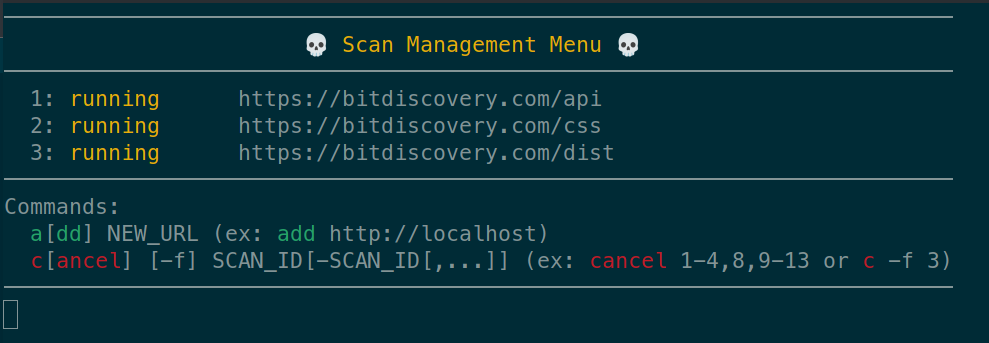
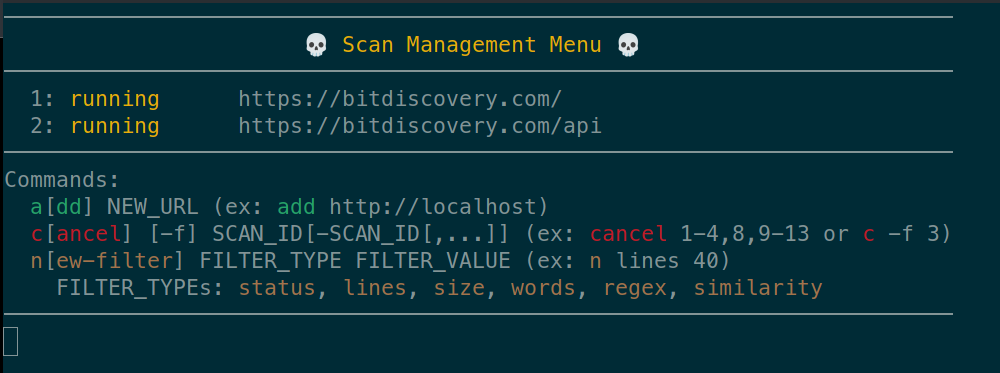
update

Changed region(s): [[0.0, 0.0875, 0.9707, 0.8455], [0.0, 0.0292, 0.9707, 0.0583], [0.0, 0.8746, 0.0303, 0.9621]]

diff --git a/content/docs/Examples/cancel-scan.md b/content/docs/Examples/cancel-scan.md
@@ -4,7 +4,7 @@ weight: 13
 categories: ["examples"]
 tags: ["feature", "pause", "cancel", "add", "menu"]
 description: >
-  Added in version **1.12.0**; Revised in version **2.4.1**
+  Added in version **1.12.0**; Revised in versions **2.4.1** and **2.6.2**
 ---
 
 ## Add or Cancel a Recursive Scan Interactively
@@ -19,6 +19,9 @@ adding an interactive menu from which currently running recursive scans can be c
 
 Version 2.4.1 expanded functionality even further with the ability to add a brand-new scan. Now that cancelling is no
 longer the only action available to users, the name has been updated to the **Scan Management Menu**™. 
+
+Version 2.6.2 brought yet another capability: users can now add new filters to their current scan. Adding a new filter
+works the same as though you had specified `--filter-*` on the command-line. 
 
 ## Example 
 
@@ -40,6 +43,28 @@ Using the menu is pretty simple: from a running scan, press `ENTER` to view the 
 ### Add a New Url for Scanning
 
 - Enter `add` or `a` followed by the new url you'd liked you add to the current scan queue 
+
+### Add a New Response Filter 
+
+- Enter `new-filter` or `n`, then the type of filter you'd like to add, and the value to pass to the filter itself.
+
+Valid filter types:
+- `status`
+- `lines`
+- `size`
+- `words`
+- `regex`
+- `similarity`
+
+Examples: 
+
+- `n status 301` - equivalent to command-line option `--filter-status 301`
+- `new-filter lines 1` - equivalent to command-line option `--filter-lines 1`
+- `new-filter words 7` - equivalent to command-line option `--filter-words 7`
+- `n regex token:[0-9a-zA-Z]+` - equivalent to command-line option `--filter-regex 'token:[0-9a-zA-Z]+'`
+- `n similarity https://target.url/page/with/csrf-token` - equivalent to command-line option `--filter-similar-to https://target.url/page/with/csrf-token`
+- `new-filter size 1337` - equivalent to command-line option `--filter-size 1337`
+
 
 ## Demonstration
 
